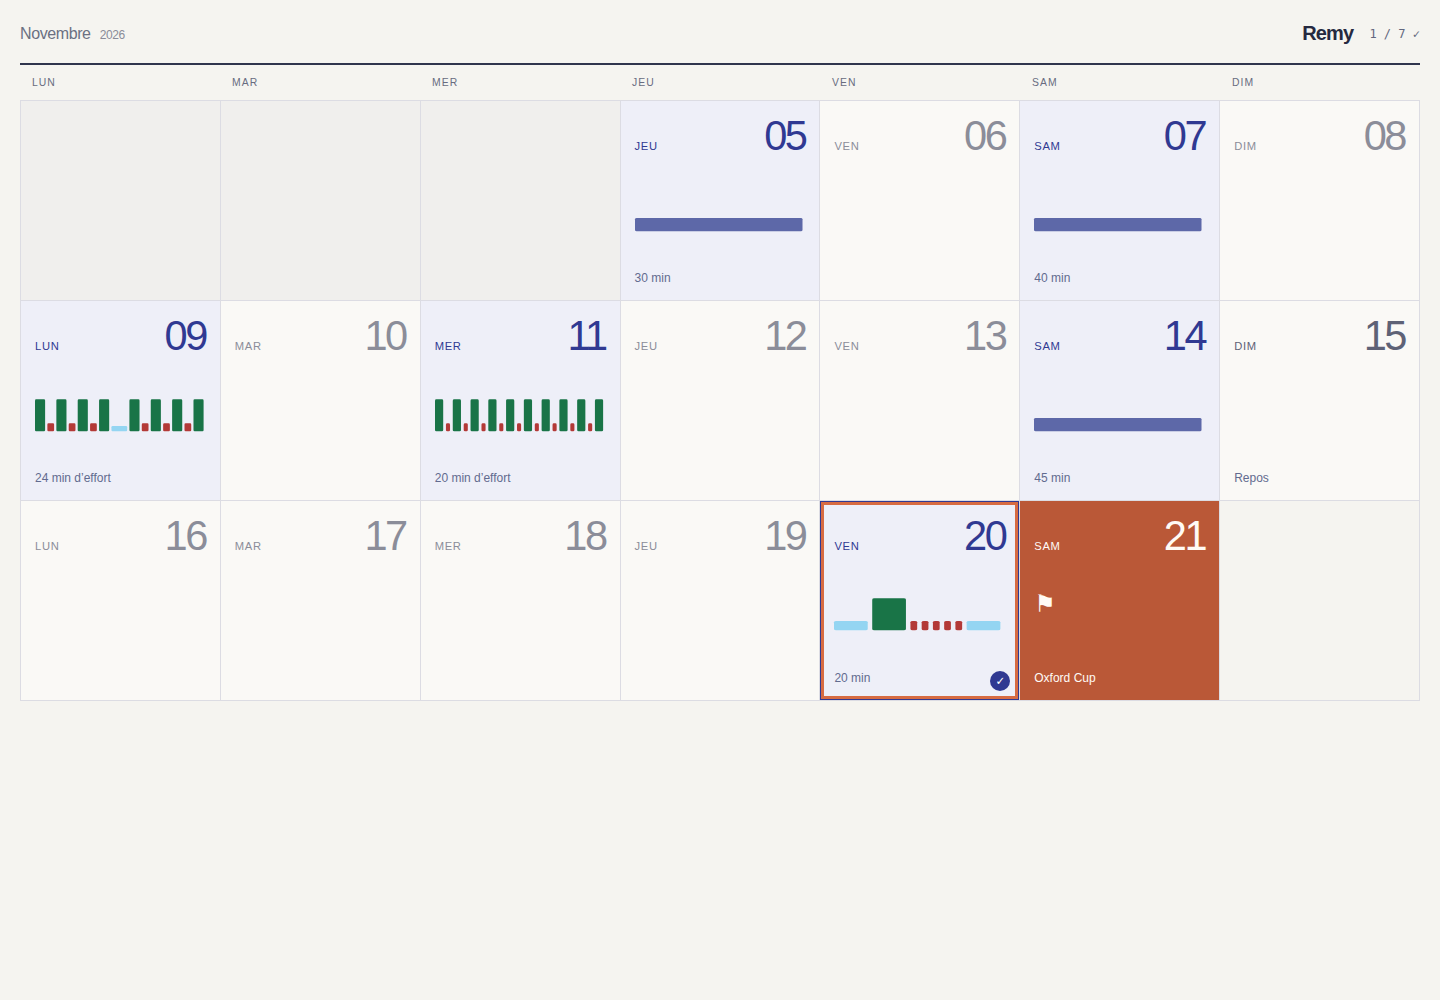
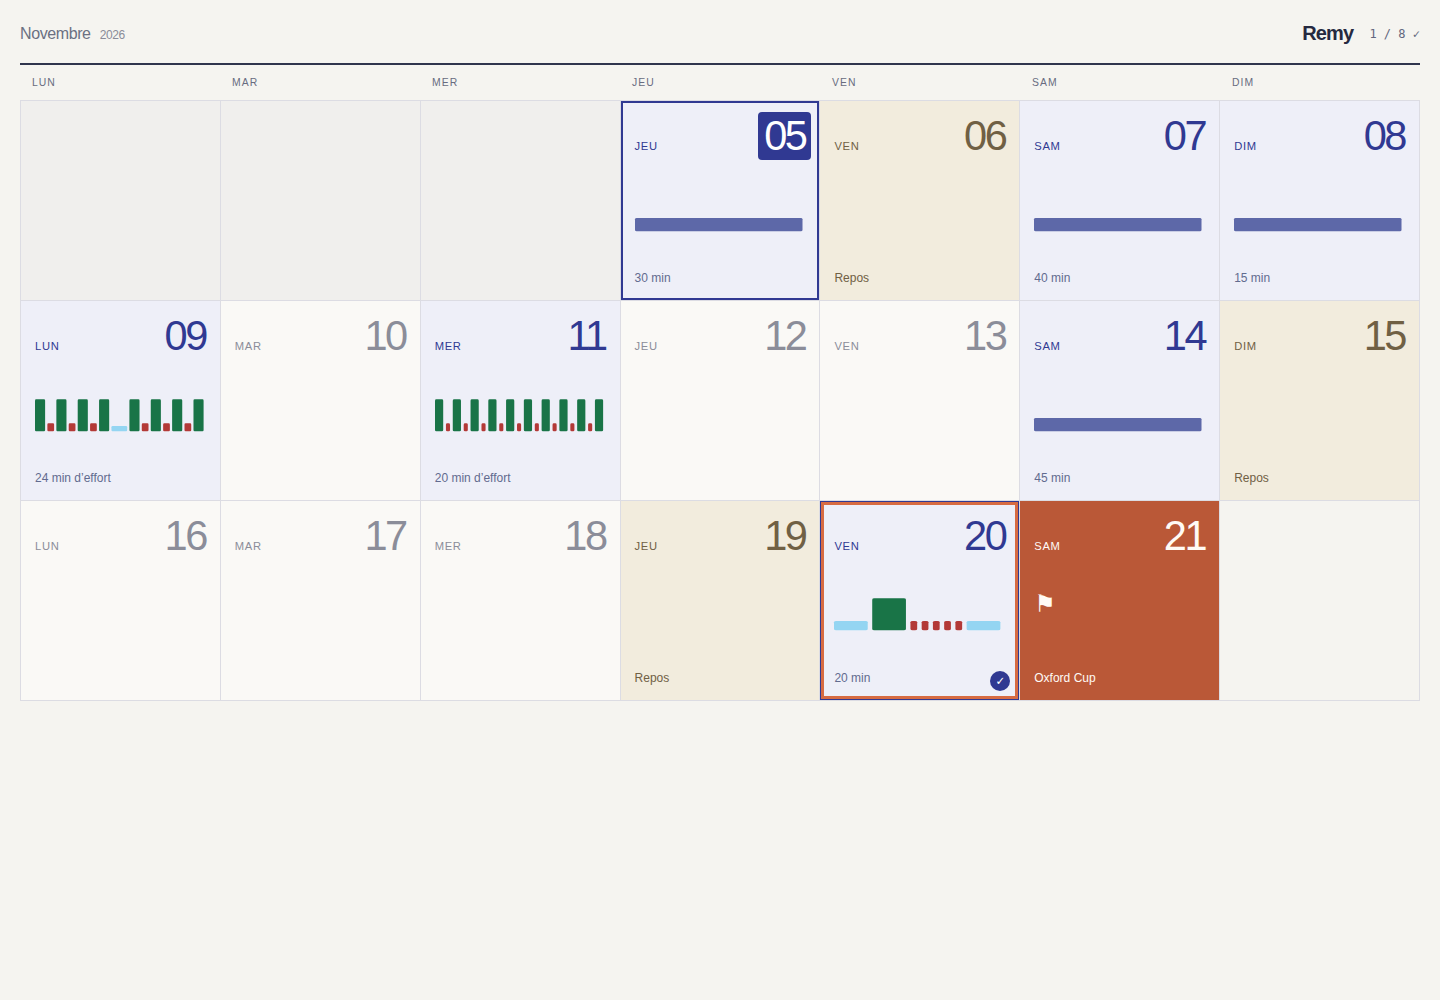
Ajoute les repos confirmés et le repère du jour à Toronto

diff --git a/app.js b/app.js
@@ -3,6 +3,17 @@ const $ = id => document.getElementById(id);
 const escape = value => String(value ?? '').replace(/[&<>"']/g, c => ({'&':'&amp;','<':'&lt;','>':'&gt;','"':'&quot;',"'":'&#39;'}[c]));
 const date = key => new Date(`${key}T12:00:00`);
 const dayFormat = new Intl.DateTimeFormat('fr-CA', { weekday:'long',day:'numeric',month:'long' });
+const torontoDate = new Intl.DateTimeFormat('en-CA', {timeZone:'America/Toronto',year:'numeric',month:'2-digit',day:'2-digit'});
+const todayInToronto = () => torontoDate.format(new Date());
+function refreshCalendarDates() {
+  const today=todayInToronto();
+  for(const button of document.querySelectorAll('#days [data-day]')) {
+    const current=button.dataset.day===today;
+    button.classList.toggle('today',current);
+    button.classList.toggle('past',button.dataset.day<today);
+    if(current)button.setAttribute('aria-current','date');else button.removeAttribute('aria-current');
+  }
+}
 const statusNames = {confirmed:'Confirmé',provisional:'Provisoire',pending:''};
 const STORE = 'remy.timer.v1';
 const DONE_STORE = 'remy.completed.v1';
@@ -37,6 +48,7 @@ if('serviceWorker' in navigator){
 }
 window.addEventListener('online',checkForUpdates);
 setInterval(checkForUpdates,60000);
+setInterval(refreshCalendarDates,60000);
 function readSaved(key = selected?.date) { try { return JSON.parse(localStorage.getItem(`${STORE}.${key}`)); } catch { return null; } }
 function save() {
   if (!timer) return;
@@ -76,7 +88,7 @@ function renderDays() {
     const label=type==='race'?'Oxford Cup':day.rest?'Repos':day.effortMinutes?`${day.effortMinutes} min d’effort`:w?.durationSeconds?`${w.durationSeconds/60} min`:total?`${total/60} min`:'';
     html+=`<button type="button" class="day-button ${day.status} ${type==='race'?'race':''} ${w?'has-workout':''} ${day.rest?'rest':''} ${done?'completed':''}" data-day="${day.date}" aria-haspopup="dialog" aria-label="${escape(dayFormat.format(date(day.date))+' : '+day.title+(w?done?', séance faite':', séance à faire':''))}"><span class="day-top"><span class="day-name">${escape(weekday.format(date(day.date)).replace('.',''))}</span><span class="day-number">${String(date(day.date).getDate()).padStart(2,'0')}</span></span>${workoutGraph(day)}<span class="day-short">${escape(label)}</span>${done?'<span class="day-marker" aria-hidden="true">✓</span>':''}${type==='race'?'<span class="race-flag" aria-hidden="true">⚑</span>':''}</button>`;
   }
-  $('days').innerHTML=html;
+  $('days').innerHTML=html;refreshCalendarDates();
   const count=data.days.filter(d=>d.workout&&completed[d.date]).length,total=data.days.filter(d=>d.workout).length;
   $('completion-count').textContent=`${count} / ${total} ✓`;
   $('completion-count').setAttribute('aria-label',`${count} séances faites sur ${total}`);
@@ -272,9 +284,9 @@ $('day-dialog').addEventListener('cancel',e=>{e.preventDefault();returnToCalenda
 $('day-dialog').addEventListener('click',e=>{if(e.target===$('day-dialog')){const r=$('day-dialog').getBoundingClientRect();if(e.clientX<r.left||e.clientX>r.right||e.clientY<r.top||e.clientY>r.bottom)returnToCalendar();}});
 window.addEventListener('hashchange',()=>data&&route());
 window.addEventListener('blur',cancelHold);
-document.addEventListener('visibilitychange',()=>{cancelHold();if(timer){timer.tick();save();renderTimer();}syncWake();if(!document.hidden){checkForUpdates();applyPendingUpdate();}});
+document.addEventListener('visibilitychange',()=>{cancelHold();if(timer){timer.tick();save();renderTimer();}syncWake();if(!document.hidden){refreshCalendarDates();checkForUpdates();applyPendingUpdate();}});
 window.addEventListener('pagehide',()=>{cancelHold();timer?.tick();save();});
-window.addEventListener('pageshow',()=>{timer?.tick();renderTimer();syncWake();checkForUpdates();applyPendingUpdate();});
+window.addEventListener('pageshow',()=>{refreshCalendarDates();timer?.tick();renderTimer();syncWake();checkForUpdates();applyPendingUpdate();});
 document.addEventListener('keydown',e=>{if(screenOpen&&e.key==='Escape'&&(locked||timer?.state.running)){e.preventDefault();message('Déverrouille et mets en pause pour revenir au calendrier.');}});
 setInterval(()=>{renderTimer();paintHold();},100);
 async function offlineSetup(){
@@ -292,6 +304,6 @@ async function offlineSetup(){
 
 try {
   const response=await fetch('./schedule.json');if(!response.ok)throw Error();data=await response.json();
-  const today=new Date(); const todayKey=`${today.getFullYear()}-${String(today.getMonth()+1).padStart(2,'0')}-${String(today.getDate()).padStart(2,'0')}`;
+  const todayKey=todayInToronto();
   selectDay(data.days.find(d=>d.date>=todayKey)?.date||data.days.at(-1).date);route();offlineSetup();
 } catch { $('days').innerHTML='<p>Le calendrier n’a pas pu être chargé. Recharge la page avec une connexion réseau.</p>'; $('offline-status').textContent='Chargement interrompu'; }

diff --git a/style.css b/style.css
@@ -37,7 +37,12 @@
   .day-number { font-size:clamp(1.7rem,3vw,2.6rem); font-weight:400; font-variant-numeric:tabular-nums; letter-spacing:-.06em; line-height:1; }
   .day-short { font-size:.75rem; line-height:1.25; color:#626b8f; min-height:1em; }
   .day-button.has-workout { color:#303992; background:#eeeff8; }
-  .day-button.rest { color:#5e6276; }
+  .day-button.rest { color:#706044; background:#f2ecdd; }
+  .day-button.rest .day-short { color:#706044; }
+  .day-button.past { opacity:.82; }
+  .day-button.past:hover,.day-button.past:focus-visible { opacity:1; }
+  .day-button.today { outline:2px solid var(--ink); outline-offset:-2px; z-index:1; }
+  .day-button.today .day-number { background:var(--ink); color:#fff; border-radius:4px; padding:3px 6px; margin:-3px -6px; }
   .day-button.race { color:#fffaf5; background:#ba5837; }
   .day-button.race .day-short { color:#fffaf5; }
   .race-flag { font-size:1.5rem; position:absolute; top:45%; }

diff --git a/mise-a-jour.html b/mise-a-jour.html
@@ -2,7 +2,7 @@
 <html lang="fr-CA">
 <head>
 <meta charset="utf-8"><meta name="viewport" content="width=device-width,initial-scale=1">
-<meta name="remy-build" content="remy-e422b9cb2ace0c05"><title>Actualiser Remy</title>
+<meta name="remy-build" content="remy-4c278d3569325a4d"><title>Actualiser Remy</title>
 <style>body{margin:0;padding:32px;font:16px/1.6 Arial,sans-serif;background:#f5f4f0;color:#252940}main{max-width:480px;margin:12vh auto}h1{font-size:28px;letter-spacing:-1px}a{color:#303992}p{margin:20px 0}</style>
 </head>
 <body><main><h1>Actualisation de Remy</h1><p id="status" role="status">Recherche de la dernière version… Tes séances faites sont conservées.</p><a href="./">Retour au calendrier</a></main>

diff --git a/index.html b/index.html
@@ -3,7 +3,7 @@
 <head>
   <meta charset="utf-8">
   <meta name="viewport" content="width=device-width, initial-scale=1, viewport-fit=cover">
-  <meta name="remy-build" content="remy-e422b9cb2ace0c05">
+  <meta name="remy-build" content="remy-4c278d3569325a4d">
   <meta name="theme-color" content="#f5f4f0">
   <meta name="description" content="Le carnet de course de Remy. Calendrier et chronomètre pour l’Oxford Cup du 21 novembre 2026.">
   <title>Remy — Calendrier</title>

diff --git a/sw.js b/sw.js
@@ -1,5 +1,5 @@
 // Generated build identity includes this worker and every static resource.
-const VERSION = 'remy-e422b9cb2ace0c05';
+const VERSION = 'remy-4c278d3569325a4d';
 const SCOPE = new URL(self.registration.scope);
 const CACHE = `${VERSION}@${SCOPE.pathname}`;
 const FILES = ['./','./index.html','./mise-a-jour.html','./style.css','./app.js','./engine.js','./schedule.json','./icon.svg','./icon-192.png','./icon-512.png','./manifest.webmanifest'];

diff --git a/docs/verification.md b/docs/verification.md
@@ -6,7 +6,7 @@ Version adaptée après l’essai d’Eric sur Galaxy. Vérifications de cette n
 
 - **29 tests moteur** : calendrier continu du 5 au 21; prescriptions séparées des 5, 7 et 14; 24 minutes d’effort le 9, 20 le 11, activation de 20 minutes inchangée; échauffements ouverts; pause interblocs libre; pause/reprise; retards d’horodatages; arrêt explicite; temps supplémentaire; strides au-delà de six; distinction lancés/complétés/interrompus; reprise de deux chronos sauvegardés; total réel par phase.
 - **25 parcours navigateur** : calendrier et fiches, suivi local, sous-chemin `/Remy/`, six tailles de fenêtre de 320 à 1 440 px, verrouillage et annulations d’appui, clavier, navigation protégée, phases, vue paysage, activation, rechargement hors ligne, refus des API plein écran/écran éveillé, stockage indisponible et reprise après arrière-plan.
-- **13 parcours mobiles avec événements tactiles Chromium** : grandes cases carrées à 412×915, recommandations et graphique du lundi, maintiens de 3 s indépendants du verrouillage, annulation à 2 999 ms/au déplacement/à l’interruption, maintiens de 1 s, double affichage, pause/reprise/rechargement d’un stride, septième stride autorisé, deux variations légères de luminosité, résumé d’un stride interrompu, temps supplémentaire et franchissement de zéro pendant un stride.
+- **16 parcours mobiles avec événements tactiles Chromium** : grandes cases carrées à 412×915, recommandations et graphique du lundi, maintiens de 3 s indépendants du verrouillage, annulation à 2 999 ms/au déplacement/à l’interruption, maintiens de 1 s, double affichage, pause/reprise/rechargement d’un stride, septième stride autorisé, deux variations légères de luminosité, résumé d’un stride interrompu, temps supplémentaire et franchissement de zéro pendant un stride.
 - Données et cache vérifiés avec `npm run check`; export `dist/` vérifié avec `npm run build`. Les durées d’effort/récupération et la séquence de l’activation du 20 ne changent pas.
 
 Captures : [calendrier](apercu-mobile.png), [fiche du 9](apercu-fiche.png), [chrono](apercu-chrono.png), [échauffement](apercu-echauffement.png), [stride](apercu-stride.png), [résumé](apercu-resume.png), [bureau](apercu-bureau.png). Les coches et totaux des captures appartiennent seulement aux profils de test.
@@ -39,6 +39,14 @@ Les strides sont retirés des graphiques du calendrier et des fiches, y compris 
 
 Le contenu des séances et le moteur restent identiques au commit `0f94bdd`; seul l’identifiant de révision du calendrier passe à `2026-11-06.1`. Les essais tactiles comparent les couleurs calculées des graphiques aux fonds du chrono lors des efforts et récupérations. Les migrations incluent la version publiée `0f94bdd` et vérifient les nouvelles barres, les couleurs et la conservation des coches. Les captures mobiles sont des simulations Chromium, pas des essais physiques sur Galaxy.
 
+## Repos et journée courante — 6 novembre 2026
+
+Les 6, 15 et 19 sont confirmés comme repos, avec un fond pâle distinct. Les 16–18 restent ouverts; le 18 est en discussion, sans repos ni séance confirmés. Le 15 garde exactement sa prescription précédente. Le 8 contient 15 minutes de jog très facile, ou repos si les jambes sont lourdes; le chrono démarre à 15:00. Aucune autre séance n’est modifiée.
+
+Le jour courant utilise `America/Toronto` indépendamment du fuseau du téléphone. Il est identifié par un contour, une date en relief et `aria-current="date"`. Les jours passés sont légèrement estompés, sans être désactivés ni cachés. La mise à jour du repère conserve le focus et les coches; elle se fait chaque minute et au retour sur la page.
+
+Les parcours tactiles vérifient les repos et le jog du 8, simulent le passage de minuit à Toronto depuis des navigateurs réglés sur Tokyo et Los Angeles, puis le retour sur la page un autre jour. Ils ouvrent et exécutent une séance passée, sans restriction de navigation. Les migrations incluent le commit publié `d8f2a3d` avec conservation des coches. La révision est `2026-11-06.2`. [Capture du 6 courant selon Toronto](jour-courant-toronto.png), avec une coche fictive du 5 conservée.
+
 ## Référence GBoxeur et revue Astra
 
 Référence lue uniquement pour le comportement du chrono dans `mixmasterkd/gestionboxeur`, commit `cef8a67016bf94d9aa710cac12519613b4d31abf` : `js/timer-session.js`, `js/session-timer.js`, `js/session-timer-engine.js` et `js/timer-interval-controls.js`. Le dépôt de référence était propre et l’est resté.
@@ -65,4 +73,4 @@ Un aperçu local a également été lancé à la demande d’Eric sur `http://12
 - En arrière-plan ou écran verrouillé, l’OS peut suspendre le code et l’audio. Les horodatages permettent de retrouver le temps, mais ne garantissent pas les alertes à l’instant voulu. Les tests simulent les retards et les transitions de visibilité; ils ne reproduisent pas toutes les politiques d’économie d’énergie Android.
 - L’état local n’est pas synchronisé. Un cache supprimé, un stockage effacé, une autre adresse ou un autre navigateur peuvent faire perdre l’accès hors ligne ou le suivi.
 - L’adresse du calendrier est `https://mixmasterkd.github.io/Remy/`. Voir [la configuration Pages](github-pages.md). Le suivi local de l’aperçu ne se transfère pas automatiquement vers cette nouvelle adresse. Aucune installation sur CyberAS.
-- Jogs en Z1, contenu des jours encore ouverts, échauffements/retours au calme manquants, récupération entre blocs du 9, horaire exact de course et ergonomie du bouton d’accélération restent à discuter. L’activation du **vendredi 20 est confirmée**.
+- Jogs en Z1 et contenu des jours encore ouverts, échauffements/retours au calme manquants, récupération entre blocs du 9, horaire exact de course et ergonomie du bouton d’accélération restent à discuter. L’activation du **vendredi 20 est confirmée**.

diff --git a/README.md b/README.md
@@ -6,7 +6,7 @@ Site statique en français québécois, sans compte, sans service de suivi sport
 
 ## Utilisation
 
-L’écran d’accueil contient uniquement le calendrier : chaque journée est une case cliquable. Les journées sans séance restent visuellement vides; leur fiche explique ce qui est connu. La coche distingue les séances faites.
+L’écran d’accueil contient uniquement le calendrier : chaque journée est une case cliquable. Les journées sans séance restent visuellement vides; leur fiche explique ce qui est connu. La coche distingue les séances faites. Les jours de repos ont un fond pâle distinct. La date courante est mise en évidence selon `America/Toronto`, même si le téléphone utilise un autre fuseau. Les jours passés sont légèrement estompés, mais restent consultables et utilisables. Le repère se met à jour chaque minute et au retour sur la page.
 
 1. Toucher une case du calendrier pour ouvrir sa fiche. La croix ou la touche Échap ramène au calendrier.
 2. Ouvrir le chronomètre et toucher **Démarrer**. Les commandes se verrouillent; maintenir leur bouton **3 secondes** pour les libérer.
@@ -36,15 +36,18 @@ Le plein écran et le maintien de l’écran éveillé restent à vérifier sur 
 | Date | Séance | Ce qui reste à préciser |
 |---|---|---|
 | Jeu. 5 | **30 min de jog** | — |
+| Ven. 6 | Repos | — |
 | Sam. 7 | **40 min de jog**, avec 6 strides de **20 s** | Récupération libre |
+| Dim. 8 | **15 min de jog très facile**, ou repos si jambes lourdes | — |
 | Lun. 9 | 2 blocs de 4 × 3 min; 2 min entre répétitions; **24 min d’effort** | Échauffement recommandé 10–15 min, retour au calme recommandé 5–10 min; pause entre blocs libre |
 | Mer. 11 | 10 × 2 min; 1 min entre répétitions; **20 min d’effort** | Échauffement et retour au calme |
 | Sam. 14 | **45 min faciles**, incluant 6 strides de 20 s; récupération complète | Échauffement libre avant le départ manuel |
 | Dim. 15 | Repos | — |
+| Jeu. 19 | Repos | — |
 | Ven. 20 | 5 min Z1, 5 min Z3, 5 × (20 s Z4–Z5 + 40 s faciles), 5 min Z1 : **20 min** | Date confirmée par Eric après clarification |
 | Sam. 21 | Oxford Cup; chrono libre | Horaire exact; environ 4,8–5 km |
 
-Les autres journées restent ouvertes, sans séance inventée. Une séance le 16, un petit jog avec accélérations le 18 et du repos le 19 ont été évoqués sans confirmation. Les jogs en zone 1 seront ajoutés par Eric.
+Les autres journées restent ouvertes, sans séance inventée. Les 16–18 restent en discussion, sans nouvelle séance confirmée. Le 18 peut devenir repos ou un petit jog avec strides; aucune durée ni répétition n’est fixée. Le 19 est confirmé comme repos. Les jogs en zone 1 seront ajoutés par Eric.
 
 Les strides des samedis **7 et 14 durent 20 secondes**. Le jog du 7 dure **40 minutes**, celui du 14 **45 minutes**. Elles sont incluses dans le compte à rebours du jog. L’objectif reste six, avec des déclenchements supplémentaires permis. Aucun stride n’est lancé automatiquement. L’activation confirmée du 20 conserve exactement ses étapes et ses 20 minutes.
 

diff --git a/AGENTS.md b/AGENTS.md
@@ -7,6 +7,7 @@ Projet statique indépendant pour Remy. Lire README.md et docs/seances.md avant 
 - Graphiques : aucun stride représenté, même dans les étapes de l’activation; conserver les descriptions et chronos. Les phases d’intervalles représentées partagent exactement les couleurs du chrono. Cette demande remplace l’interdiction initiale du vert à l’accueil.
 - Français québécois, langage simple : jog facile, récupération, répétitions, accélérations.
 - Activation confirmée vendredi 20 novembre 2026; course samedi 21. La clarification du 5 novembre remplace l’ambiguïté antérieure.
+- Repos confirmés les 6, 15 et 19 novembre. Les 16–18 restent ouverts; le 18 est en discussion, sans repos ni séance confirmés. Le 8 : 15 min de jog très facile, repos si jambes lourdes. Jour courant selon America/Toronto, jours passés légèrement estompés mais toujours consultables.
 - Garder les données locales au navigateur et le fonctionnement hors ligne. Pas de compte ni de synchronisation implicite.
 - Ajustements Galaxy autorisés : calendrier du 5 au 21, grandes cases carrées; chrono gris/bleu ciel/vert/rouge selon phase. Recommandations du 9 : échauffement 10–15 min et retour au calme 5–10 min, sans transition automatique. Correction d’Eric : les strides des 7 et 14 durent tous 20 s; conserver 40 min le 7 et 45 min le 14, objectif six.
 - Après toute modification des fichiers du site à la racine, lancer npm run prepare:offline, npm test et npm run check. Pour un changement du chrono ou de navigation, lancer les essais navigateur et tactiles avec le serveur local. Pour le cache, lancer aussi les migrations avec npm run test:update.
